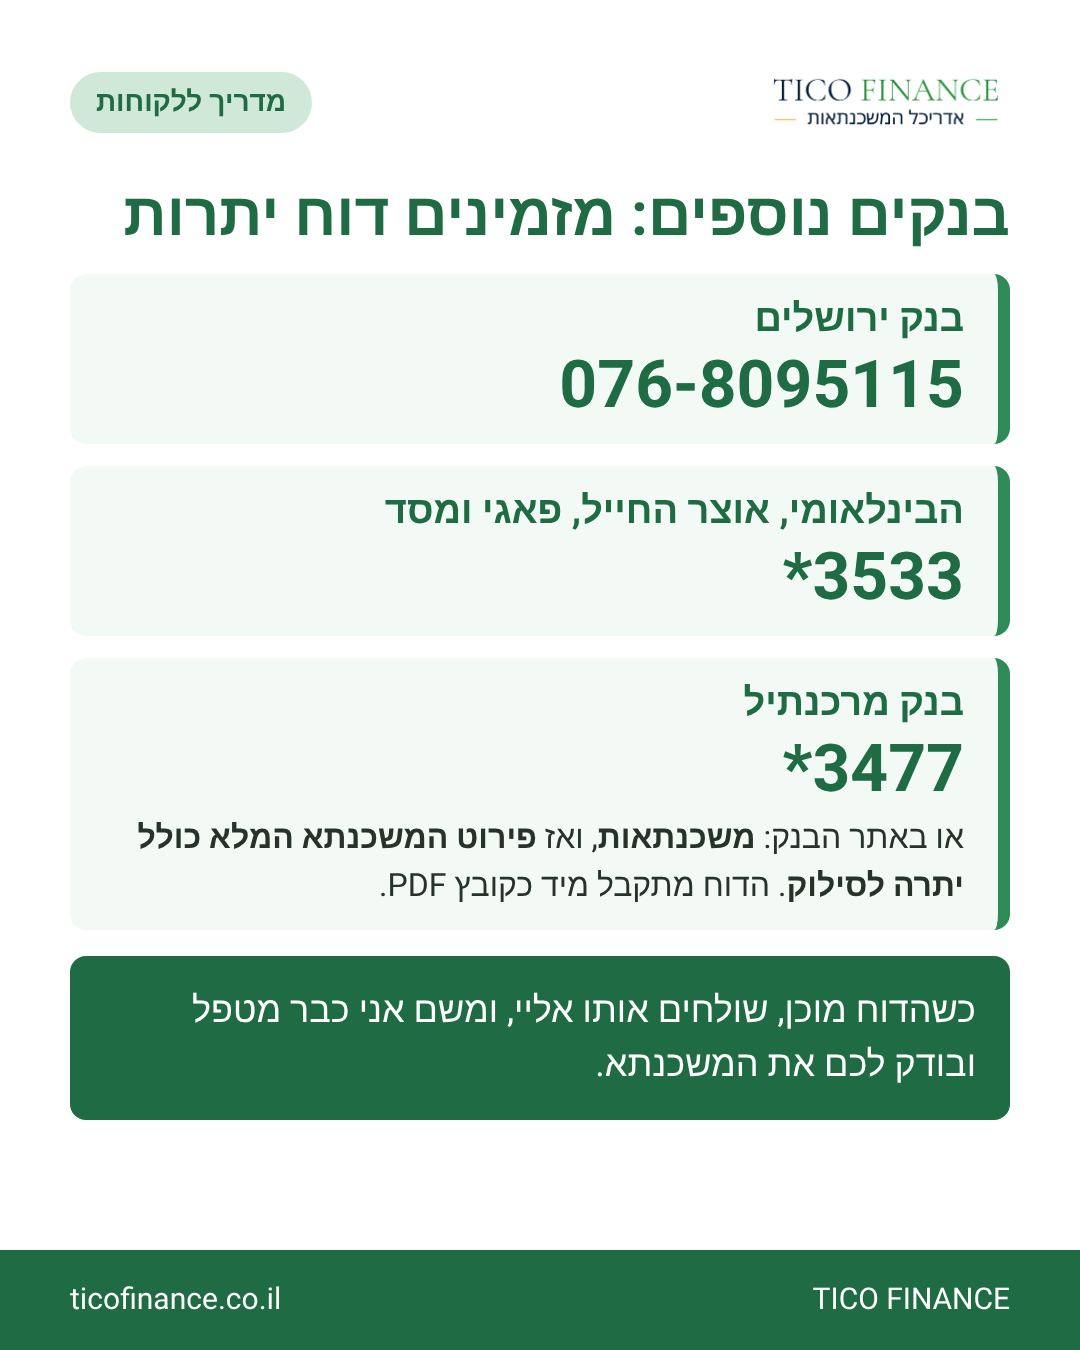
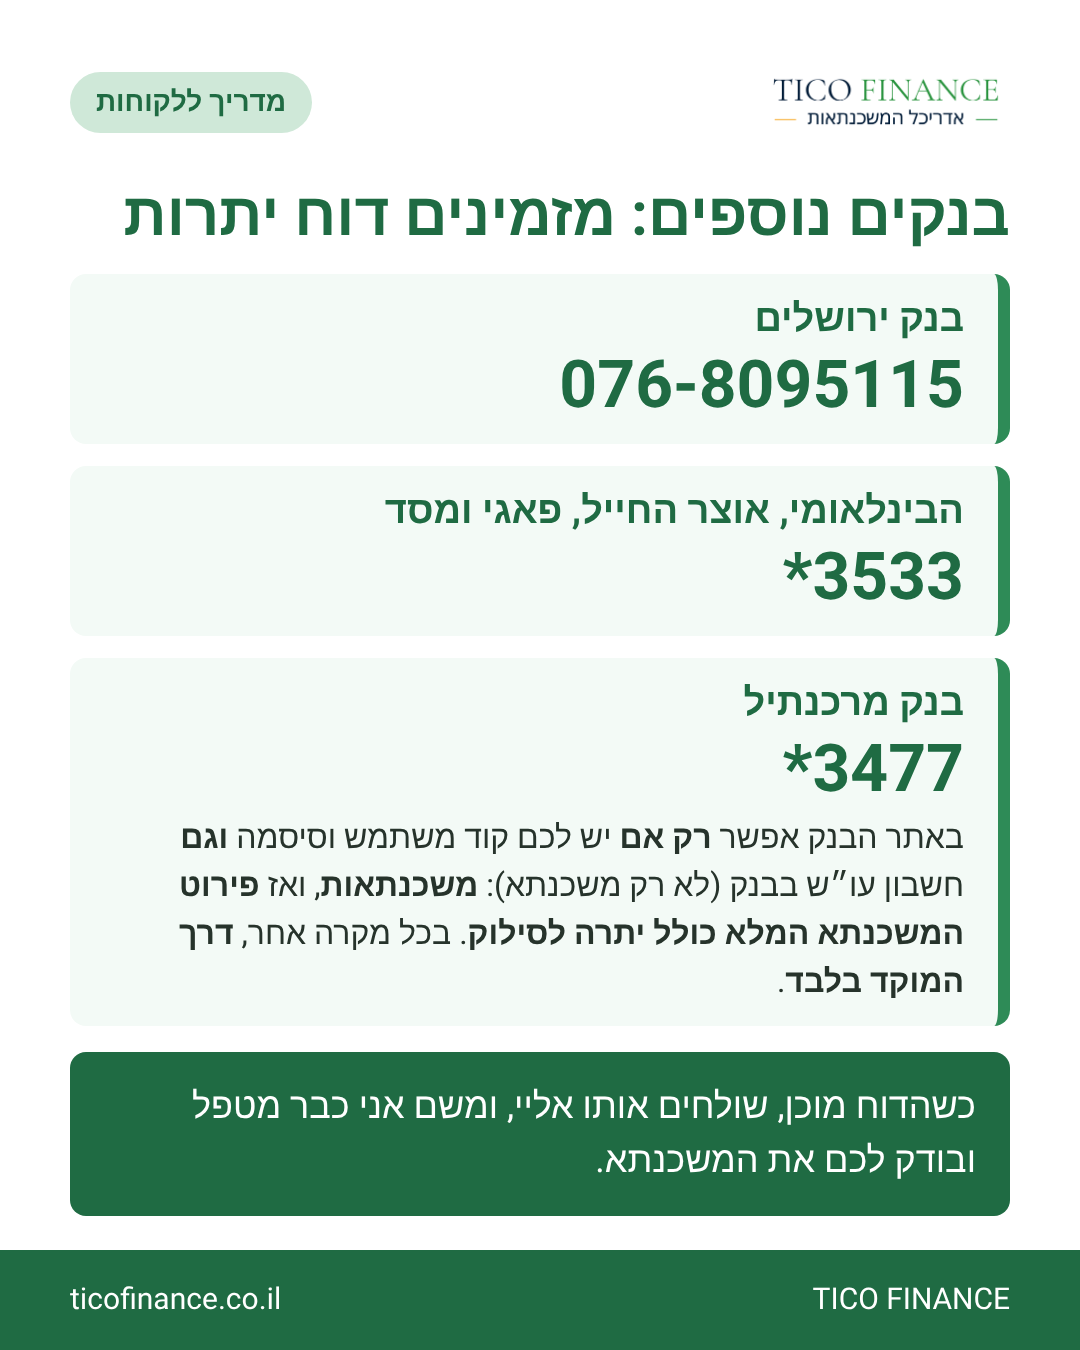
Other-banks slide: clarify Mercantile website option requires username/password and a current account
Claude-Session: https://claude.ai/code/session_01LJjcMSe4snzmzWwUqmMcQ5

Changed region(s): [[0.0611, 0.5911, 0.9472, 0.9022]]

diff --git a/guides/other-banks/guide.html b/guides/other-banks/guide.html
@@ -38,7 +38,7 @@ p.lead{font-size:38px;line-height:1.5;margin-top:22px}
  <h2 style="font-size:60px">בנקים נוספים: מזמינים דוח יתרות</h2>
  <div class="bk"><div class="n">בנק ירושלים</div><div class="ph">076-8095115</div></div>
  <div class="bk"><div class="n">הבינלאומי, אוצר החייל, פאגי ומסד</div><div class="ph">*3533</div></div>
- <div class="bk"><div class="n">בנק מרכנתיל</div><div class="ph">*3477</div><div class="t">או באתר הבנק: <b>משכנתאות</b>, ואז <b>פירוט המשכנתא המלא כולל יתרה לסילוק</b>. הדוח מתקבל מיד כקובץ PDF.</div></div>
+ <div class="bk"><div class="n">בנק מרכנתיל</div><div class="ph">*3477</div><div class="t">באתר הבנק אפשר <b>רק אם</b> יש לכם קוד משתמש וסיסמה <b>וגם</b> חשבון עו״ש בבנק (לא רק משכנתא): <b>משכנתאות</b>, ואז <b>פירוט המשכנתא המלא כולל יתרה לסילוק</b>. בכל מקרה אחר, <b>דרך המוקד בלבד</b>.</div></div>
  <div class="cta">כשהדוח מוכן, שולחים אותו אליי, ומשם אני כבר מטפל ובודק לכם את המשכנתא.</div>
  <div class="foot"><span>TICO FINANCE</span><span>ticofinance.co.il</span></div>
 </section>
